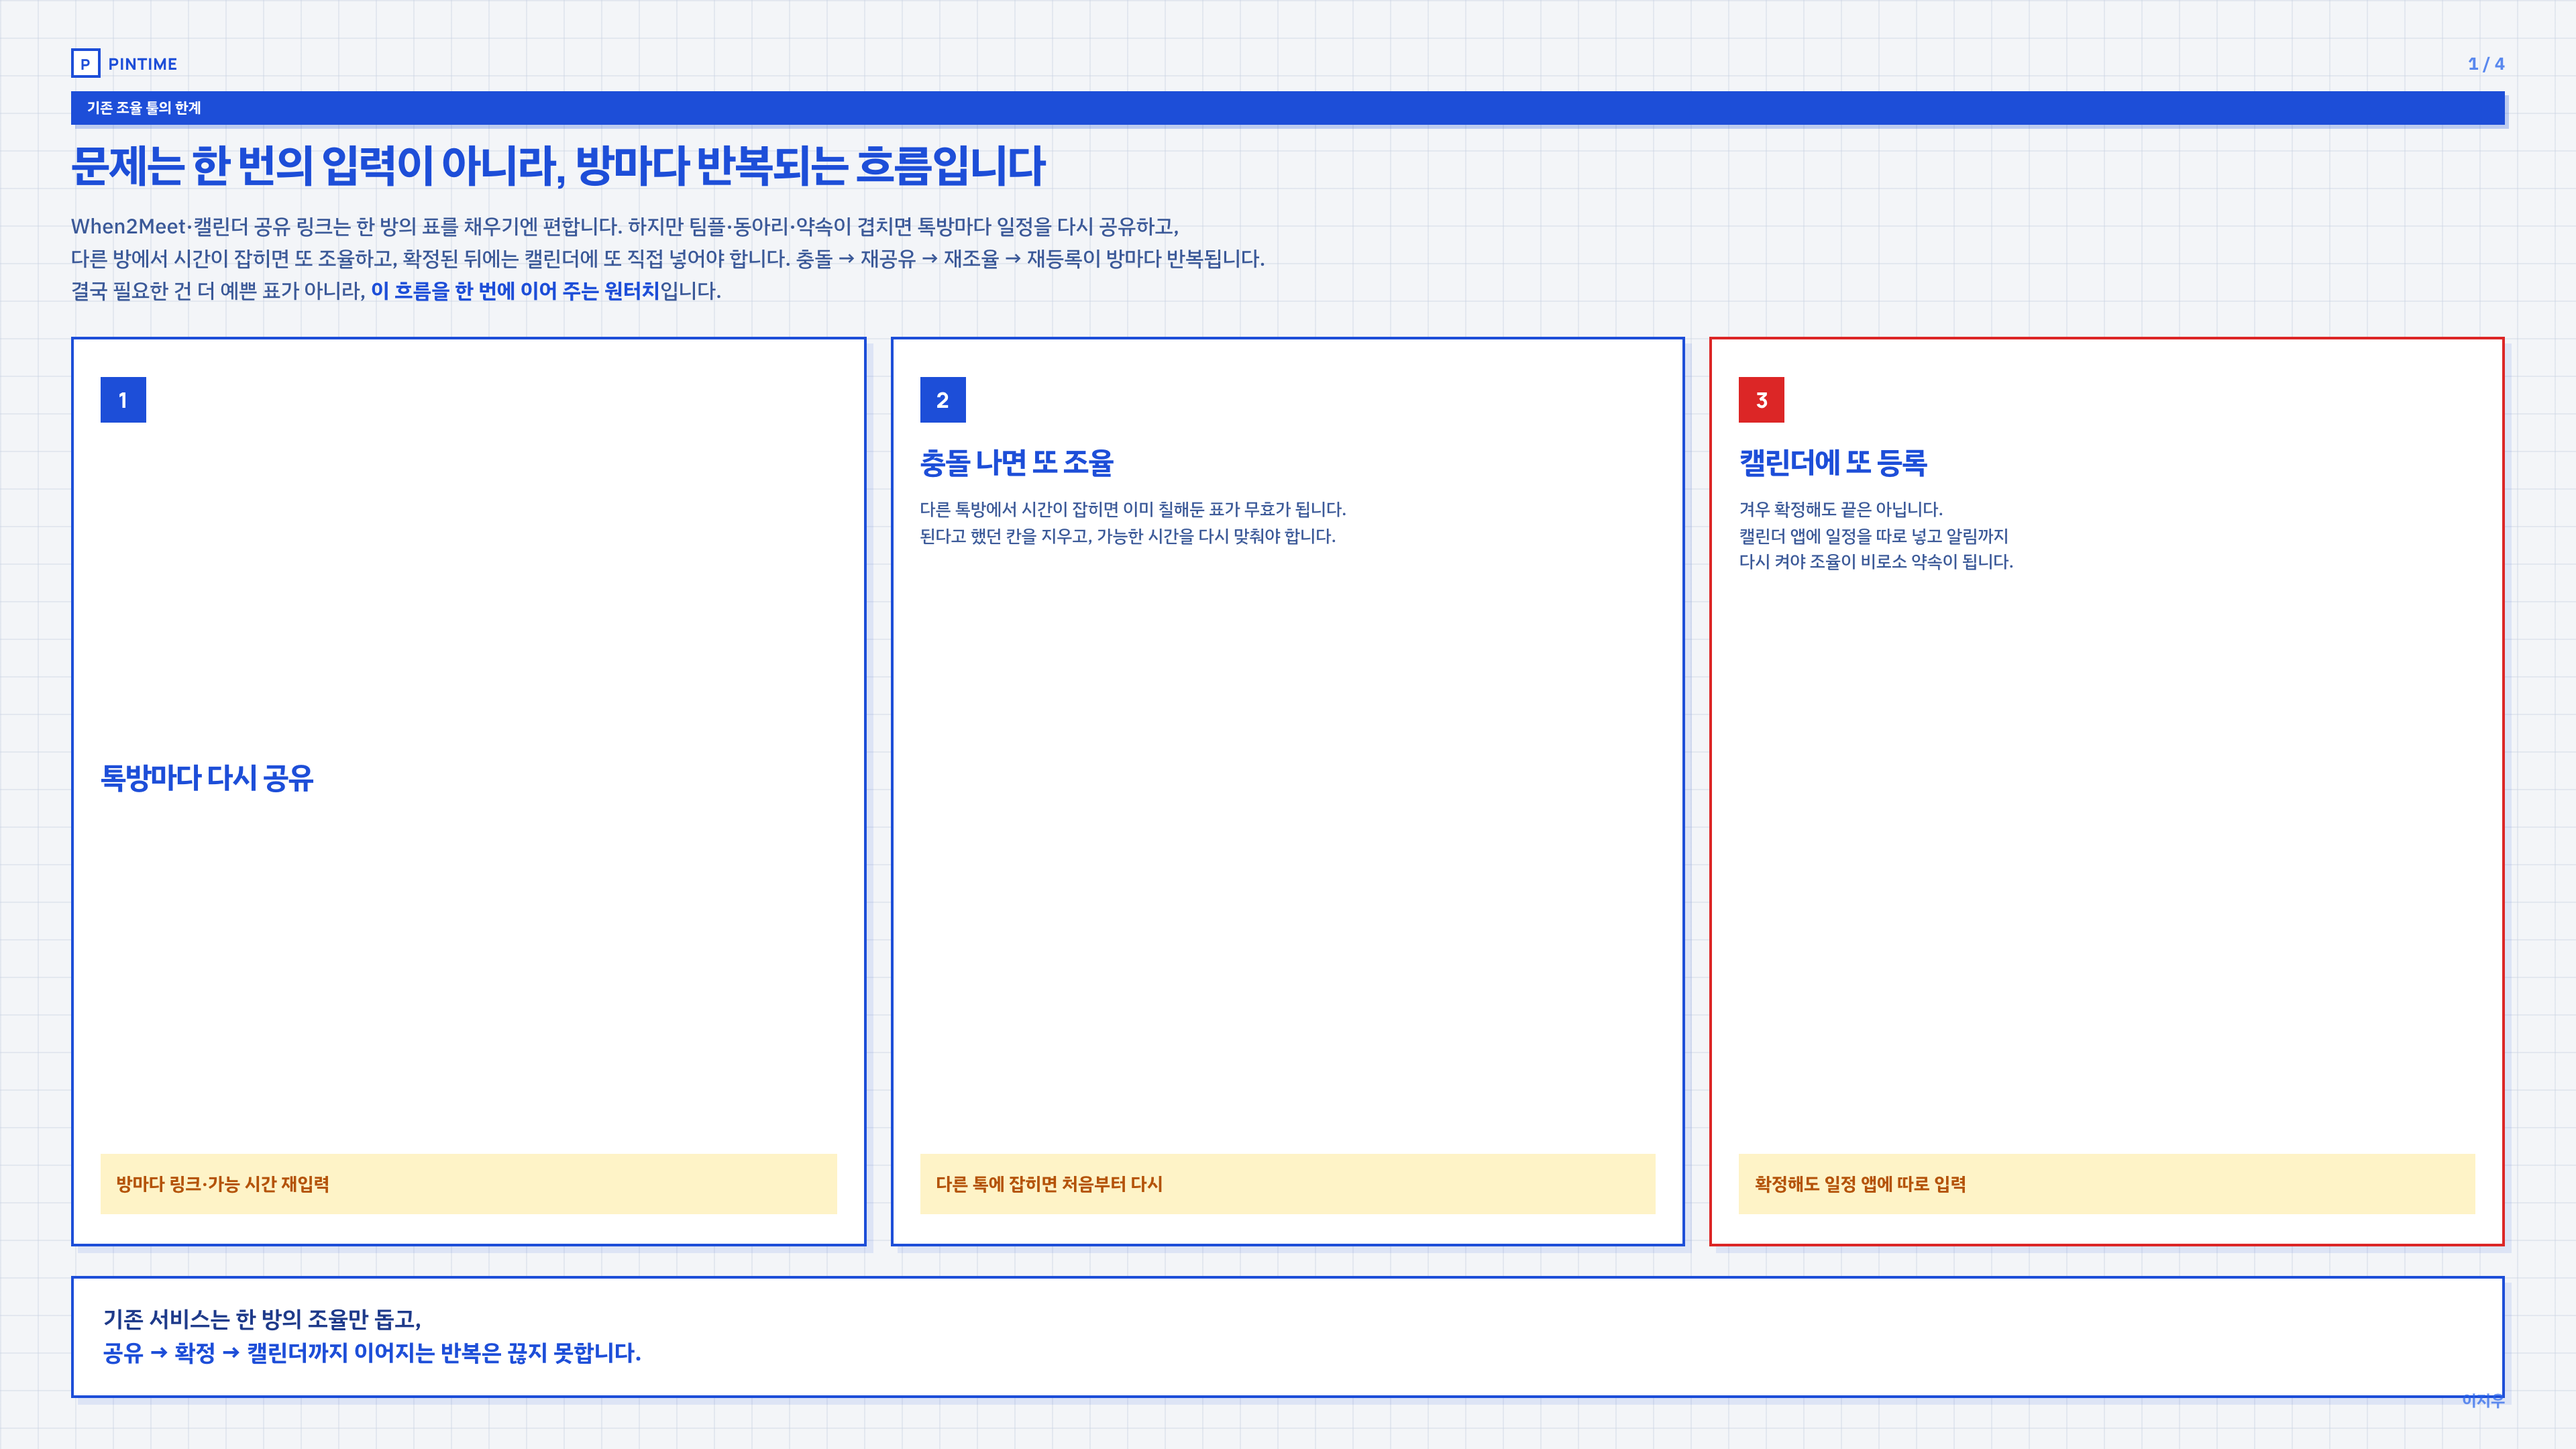
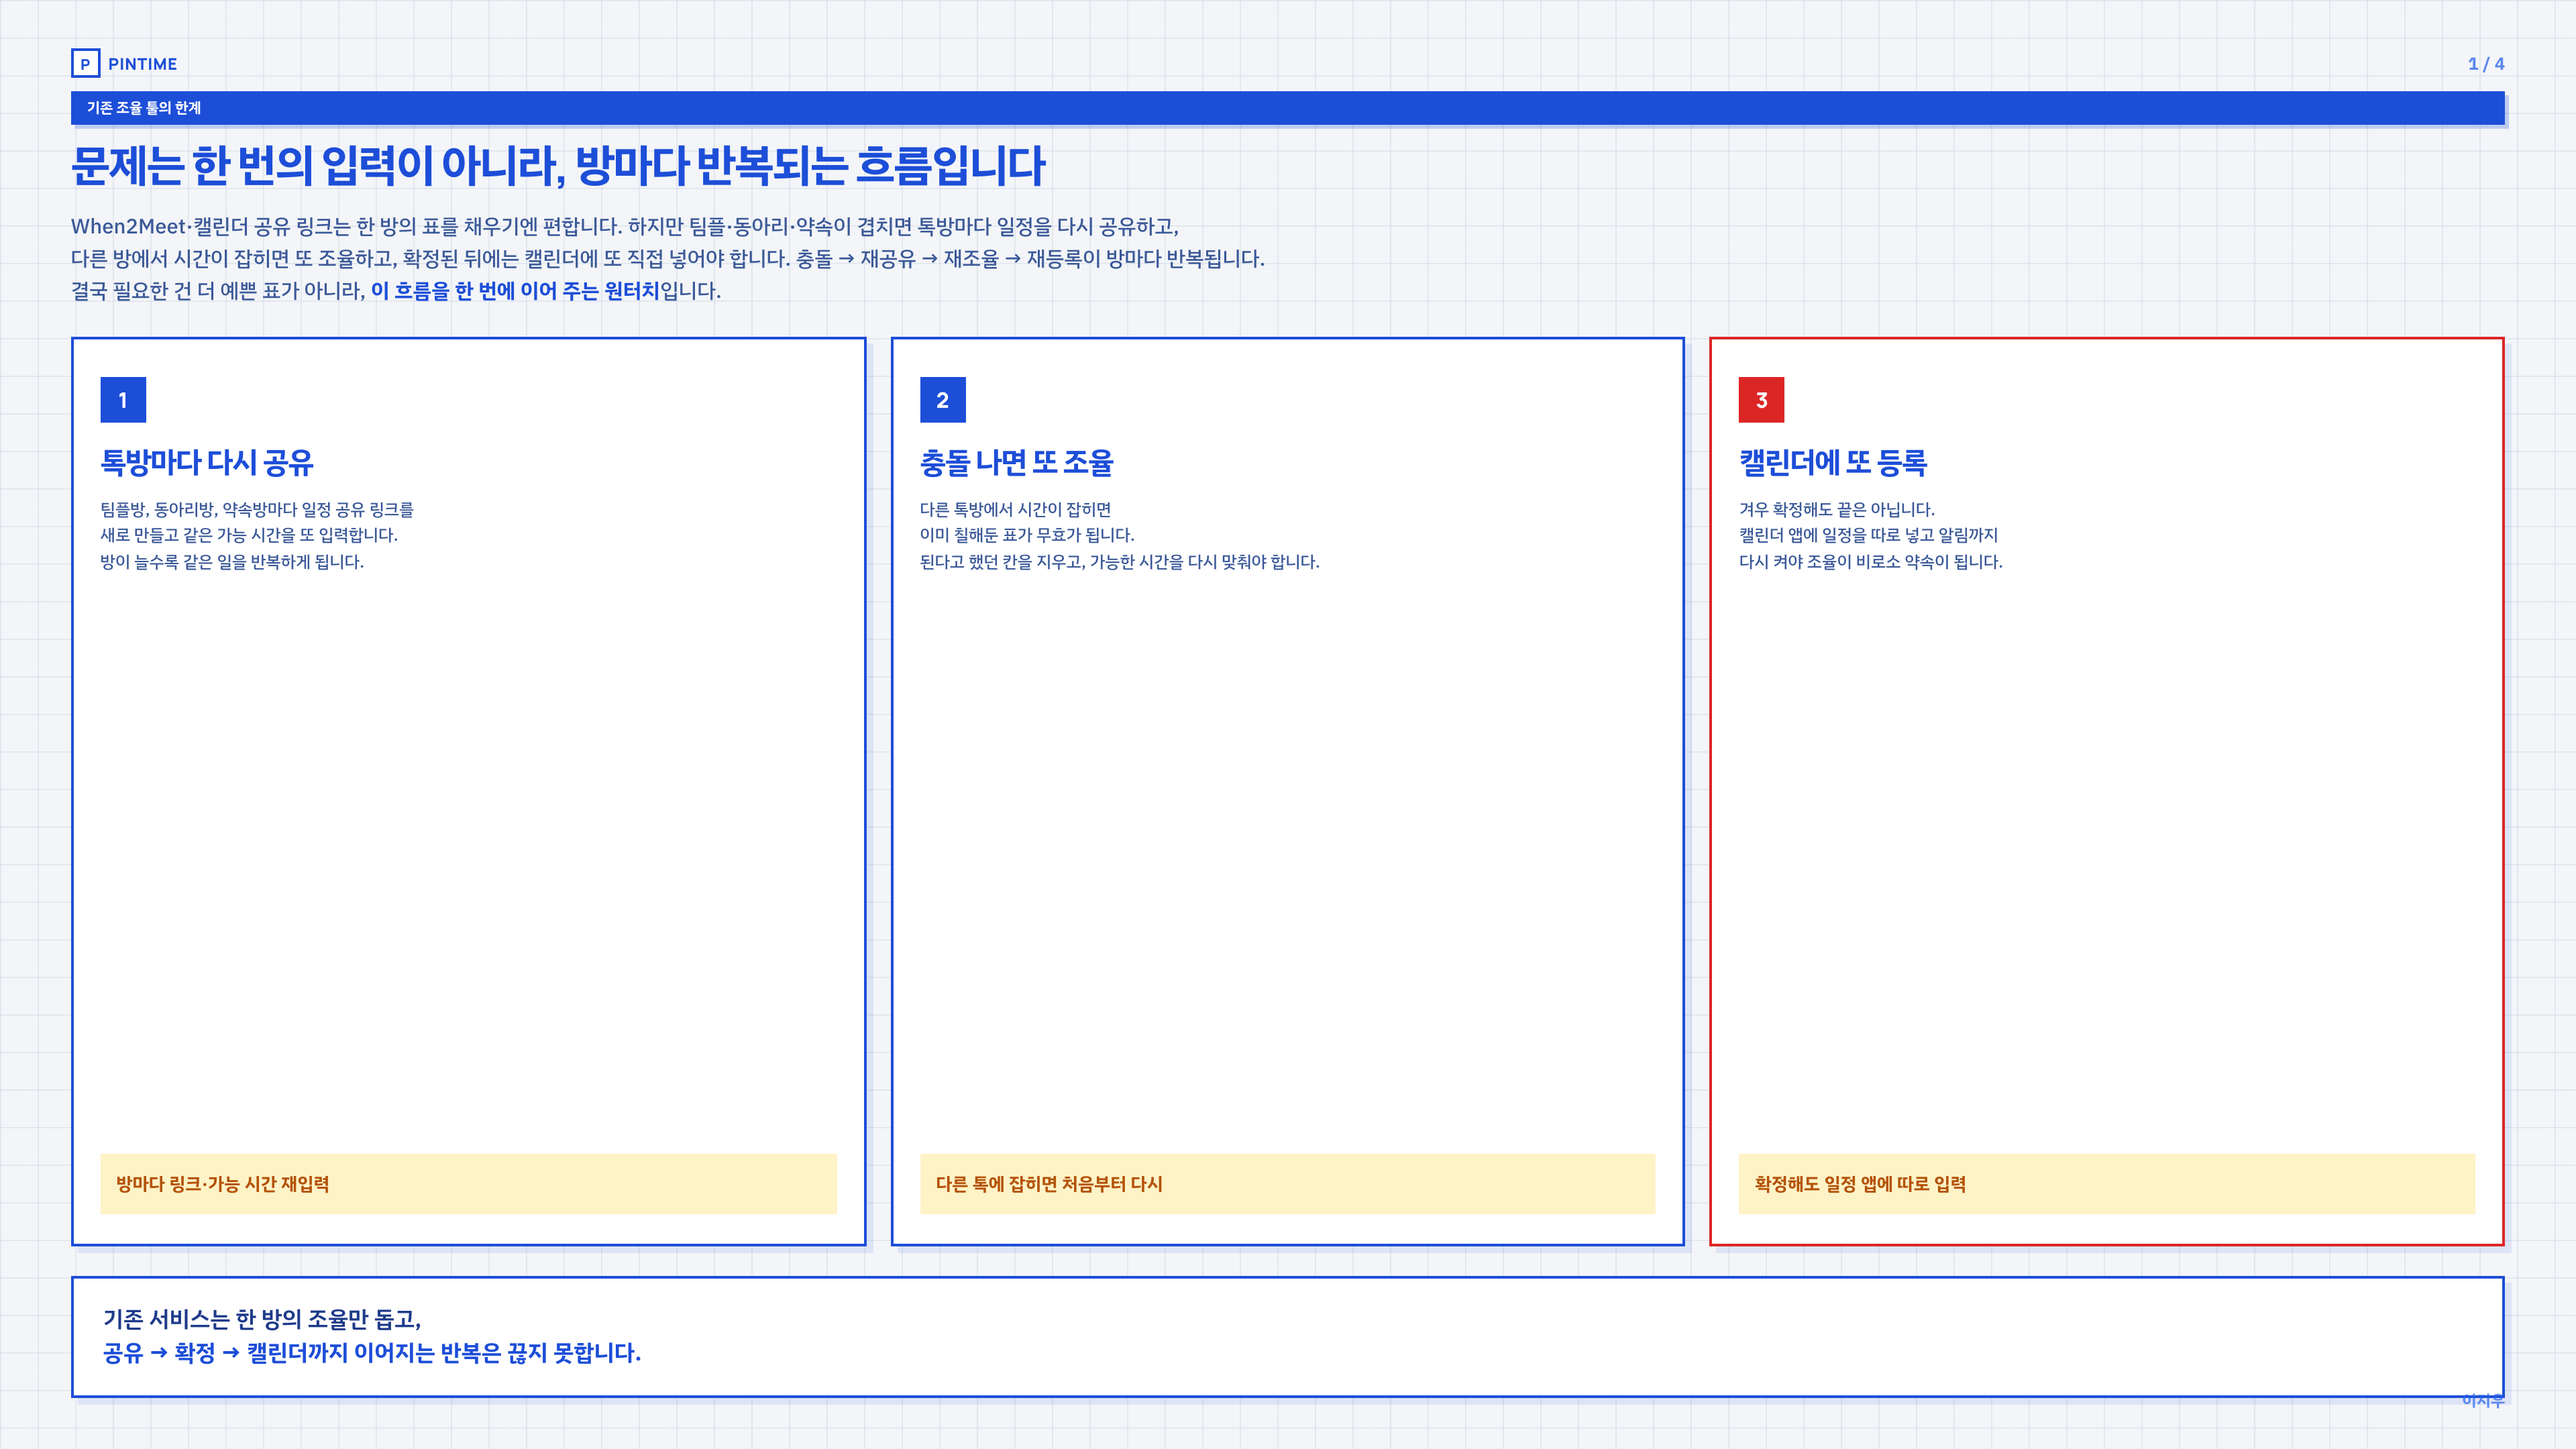
Restore problem card details as three-line copy on slide 1/4.

diff --git a/public/pitch.html b/public/pitch.html
@@ -457,8 +457,8 @@
         margin: 0;
         flex: 1;
         min-width: 0;
-        font-size: 13px;
-        line-height: 1.5;
+        font-size: 12.5px;
+        line-height: 1.55;
         color: var(--muted-solid);
         font-weight: 500;
         word-break: keep-all;
@@ -2313,13 +2313,19 @@
             <div class="problem-step">
               <span class="num">1</span>
               <h3>톡방마다 다시 공유</h3>
+              <p class="detail">
+                <span class="nowrap">팀플방, 동아리방, 약속방마다 일정 공유 링크를</span><br />
+                새로 만들고 같은 가능 시간을 또 입력합니다.<br />
+                방이 늘수록 같은 일을 반복하게 됩니다.
+              </p>
               <div class="one-line">방마다 링크·가능 시간 재입력</div>
             </div>
             <div class="problem-step">
               <span class="num">2</span>
               <h3>충돌 나면 또 조율</h3>
               <p class="detail">
-                다른 톡방에서 시간이 잡히면 이미 칠해둔 표가 무효가 됩니다.<br />
+                다른 톡방에서 시간이 잡히면<br />
+                이미 칠해둔 표가 무효가 됩니다.<br />
                 된다고 했던 칸을 지우고, 가능한 시간을 다시 맞춰야 합니다.
               </p>
               <div class="one-line">다른 톡에 잡히면 처음부터 다시</div>
